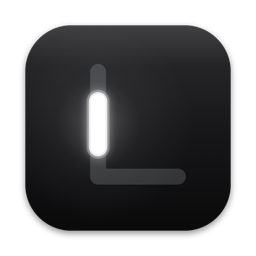
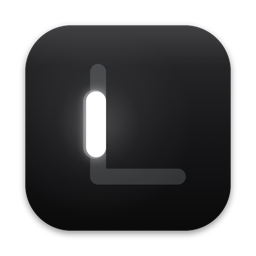
Lit part of the L grows only backwards

Changed region(s): [[0.3125, 0.3438, 0.4375, 0.625]]

diff --git a/index.html b/index.html
@@ -44,7 +44,7 @@ nav { display: flex; align-items: center; gap: 10px; padding-block: 18px; }
   box-shadow: inset 0 0 0 1px rgba(255,255,255,.1); }
 .mark::before { content: ""; position: absolute; left: 8px; top: 6px; right: 6px; bottom: 7px;
   border-left: 3px solid rgba(255,255,255,.22); border-bottom: 2.5px solid rgba(255,255,255,.22); border-bottom-left-radius: 2px; }
-.mark::after { content: ""; position: absolute; left: 7.5px; top: 10px; height: 7px; width: 4px; border-radius: 2px; background: #fff; box-shadow: 0 0 6px rgba(255,255,255,.85); }
+.mark::after { content: ""; position: absolute; left: 6px; top: 10px; height: 7px; width: 5px; border-radius: 2px; background: #fff; box-shadow: -3px 0 5px rgba(255,255,255,.75); }
 nav .name { font-weight: 600; font-size: 1.05rem; }
 nav .spacer { flex: 1; }
 .btn { display: inline-flex; align-items: center; gap: 8px; border: 0; border-radius: 999px; cursor: pointer;
